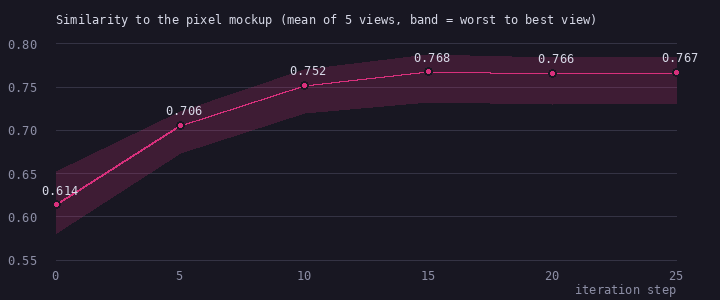
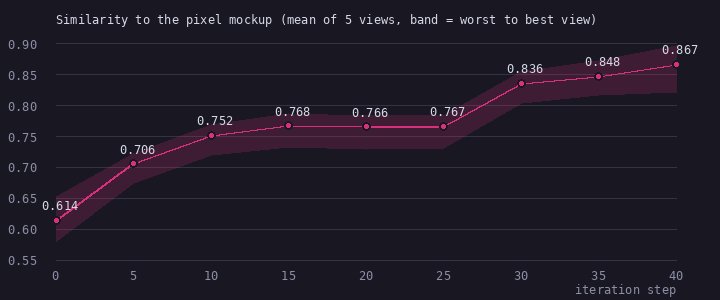
feat(juno): iteration steps 36-40, README on the second run
Back grids redrawn from the text view, the hem painted over the template's
ink edge, collar tips at the jacket's corners, a second palette pass.
Similarity 0.848 -> 0.867 (0.767 at the start of the run). Snapshot in
history/step-40.toml; the README's chapter 5 gets a section on the
instruments that made the second run work, and the Juno figures are
regenerated (hero.gif and the browser captures are not).

Claude-Session: https://claude.ai/code/session_01Fv8yoVpx8AM9QtDidGMBtM

diff --git a/README.md b/README.md
@@ -69,7 +69,7 @@ flowchart LR
 | 2 | [Teaching the AI anatomy](#2--teaching-the-ai-anatomy) | Labeling every pixel of every frame with the body part it belongs to |
 | 3 | [Pixels as text](#3--pixels-as-text) | Why every image here is also a text file |
 | 4 | [Dressing the mannequin](#4--dressing-the-mannequin) | A character is a recipe that renders onto all frames at once |
-| 5 | [Closing the gap](#5--closing-the-gap) | 25 rounds of the agent comparing its render to the mockup, and where it stopped paying off |
+| 5 | [Closing the gap](#5--closing-the-gap) | 40 rounds of the agent comparing its render to the mockup: where it stopped paying off, and what got it moving again |
 | 6 | [Debugging in plain text](#6--debugging-in-plain-text) | Bugs tracked down with a query and fixed with a few characters |
 | 7 | [Variations for free](#7--variations-for-free) | A new colorway is a ten-line file |
 | 8 | [The AI picks up the pencil](#8--the-ai-picks-up-the-pencil) | Why concept art can't just be shrunk into pixel art |
@@ -239,11 +239,11 @@ flowchart LR
 Every five steps the recipe was saved to `characters/juno/history/step-NN.toml`, so each stage of the progression is
 rebuilt from source like every other image here:
 
-<p align="center"><img src="docs/images/juno-iteration.png" alt="Pixel mockup, then Juno after 0, 5, 10, 15, 20 and 25 iteration steps, in five views" width="920"></p>
+<p align="center"><img src="docs/images/juno-iteration.png" alt="Pixel mockup, then Juno after 0, 5, 10, 15, 20, 25, 30, 35 and 40 iteration steps, in five views" width="920"></p>
 
 <p align="center"><img src="docs/images/juno-iteration-heads.png" alt="Head close-ups (front, profile, back) across the same steps" width="920"></p>
 
-What each block of five steps did (the full log, step by step, is
+What each block of five steps did in the first run (the full log, step by step, is
 [`characters/juno/history/NOTES.md`](characters/juno/history/NOTES.md)):
 
 | steps | focus | similarity |
@@ -259,10 +259,12 @@ The similarity score is deliberately coarse. It lets every opaque pixel look for
 in the other image, so it forgives one-pixel drift but not a wrong shape or color. A perfect 1.0 is out of reach for
 reasons explained below.
 
-<p align="center"><img src="docs/images/juno-similarity.png" alt="Similarity to the mockup per saved step: 0.614, 0.706, 0.752, 0.768, 0.766, 0.767" width="720"></p>
+<p align="center"><img src="docs/images/juno-similarity.png" alt="Similarity to the mockup per saved step: 0.614, 0.706, 0.752, 0.768, 0.766, 0.767, then 0.836, 0.848, 0.867" width="720"></p>
 
-The curve shows the returns diminishing. Shape (steps 1–5) and color (6–10) were the big wins. After step 15 the score
-is flat, and it's worth looking at why, because most of the remaining gap can't be closed by more iterations.
+The first 25 steps show the returns diminishing. Shape (steps 1–5) and color (6–10) were the big wins. After step 15
+the score was flat, and it's worth looking at why, because most of the remaining gap can't be closed by iterating the
+same way. (A second run, steps 26–40, then changed the instruments rather than the recipe, and moved the score again.
+That comes [after the analysis](#the-second-run-better-instruments).)
 
 **The two images follow different rules.** Juno is built by a rule system: the template's five tones, recolored
 through a small palette, plus geometric rules keyed to body-part labels. The mockup was painted by an image model that
@@ -311,6 +313,39 @@ Some details needed new capabilities in the generator, and the agent added them 
 - `[outline] keep` lists the head-grid colors that keep their own color on the silhouette (the ear, the hair outline).
 
 All of these are opt-in, so the earlier snapshots still render exactly as they did.
+
+### The second run: better instruments
+
+The first run ended with the score flat and the conclusion above: the remaining gap was structural. A second run of
+fifteen steps (26–40) tested that conclusion by changing what the agent could *see* before changing the recipe.
+`just compare` grew four instruments:
+
+- a **loss table per body part** (head, torso, cyber-arm, feet…), in score points, per view, so the biggest leak has a
+  name rather than a feeling;
+- **heat-map rows** below the side-by-side, the render dimmed with its unmatched pixels in red, and the same for the
+  mockup;
+- `--text VIEW`: the mockup and the render as text, `mockup | render`, every pixel written as a recipe palette letter
+  (`H` hair base, `H-` hair shade, `t` stubble, `r` orange, `##` outline, `??` nothing close). The mockup becomes
+  something an agent can read *as a head grid*, row by row, and copy from;
+- `--fit`: for every color in the render, the median mockup color underneath it. A palette suggestion table.
+
+The first thing the fit table said was that the mockup's outline is a warm dark brown (`#241a17`), not the near-black
+the recipe used. That one line was worth more than the previous ten steps (0.767 → 0.800). Then the text view showed
+what the loop had been unable to see in a side-by-side image: the visor sits one row lower on the same-height head,
+the whole back of the head is shaved down to the jaw in profile, the pants are the jacket's grey, the collar is open
+from the front, the sneakers are white high-tops with orange caps rather than orange soles. Each head grid was
+redrawn from the text view, offset by offset.
+
+| steps | focus | similarity |
+|---|---|---|
+| 26–30 | **what the fit table said.** Warm outline, grey pants, a palette refit, the open collar, the visor's grey rim, white high-tops | 0.836 |
+| 31–35 | **head grids read off the text view.** Profile, front and 3/4 redrawn: shaved side down to the jaw, hair from the crown, an outlined ear, a brow row over the visor; the visor on the same head row in every facing | 0.848 |
+| 36–40 | **the back views and the trim.** Back grids redrawn, the hem painted over the template's ink edge, collar tips at the jacket's corners, a second palette pass | 0.867 |
+
+The ceiling argument still holds: the mockup reduced to its own best 30 colors scores about 0.88, and step 40 is at
+0.867. What changed is that the agent could now find the rest of the way by itself, because the reference was in a
+form it reads well. The human-flagged issues of the first run (strand direction, a visor too wide) were all things a
+text diff makes obvious.
 
 ## 6 · Debugging in plain text
 

diff --git a/characters/juno/history/NOTES.md b/characters/juno/history/NOTES.md
@@ -51,4 +51,9 @@ grid) and `--fit` (the median mockup color under every render color).
 | 33 | 3/4 grid redrawn the same way; the mockup's head is two columns wider on the shaved side there, the grid extends it by one | 0.848 |
 | 34 | the visor sits on the same head row in every facing (the mockup has it a row higher in profile than from the front; consistency wins in the turn-around); brow row over the eyes in profile and the left-facing grids | 0.848 |
 | 35 | all animations checked; snapshot | 0.848 |
+| 36 | back and 3/4-back grids redrawn from the text view: the hair a row shorter with a dark bottom edge over the neck, the shaved side wider, an ear from behind, strands as shade rather than deep | 0.862 |
+| 37 | jacket hem paints over the template's ink edge (it was patchy where the template draws the jacket's bottom line in ink); the 3/4 collar open like the front (a far zipper edge was tried: the 3/4 torso is five pixels wide, the far edge is its outline) | 0.863 |
+| 38 | second `--fit` pass: pants shade, orange shade and shoe shade nudged toward the mockup (chrome and cyan variants tried, no gain, kept) | 0.867 |
+| 39 | orange collar tips at the jacket's top corners, where the mockup has them, instead of only beside the neck | 0.867 |
+| 40 | all animations checked, README figures regenerated; snapshot | 0.867 |
 
